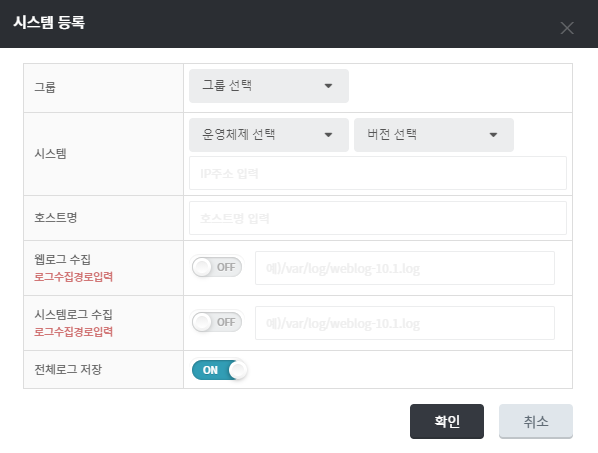
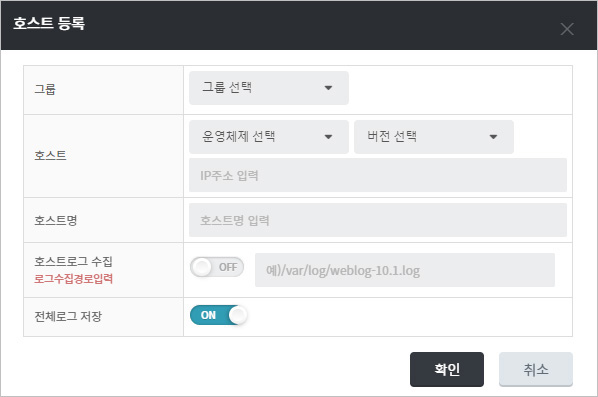
20230601-H1100

diff --git a/ko/plura/v5/install_agent/siem/etc/ko_apache_httpd_log.md b/ko/plura/v5/install_agent/siem/etc/ko_apache_httpd_log.md
@@ -55,14 +55,14 @@ File = “로그 경로”, Tag = “태그”, Severity = “심각도”, prog
 
 ### 4. PLURA V5 탐지 확인
 
-로그 예시 : 전체로그 > 시스템
+로그 예시 : 전체로그 > 호스트
 
 [![image](/docs/images/Ins_G/apache_httpd_err/1.png){: width="800px"}](/docs/images/Ins_G/apache_httpd_err/1.png){: target="_blank"}
 
 
 위 내용을 활용해서 필터를 등록하면 탐지로그를 확인할 수 있습니다.
 
-[Syslog 필터등록](https://qubitsec.github.io/ko_f_regi_syslog.html){:target="_blank"}
+[필터등록](https://qubitsec.github.io/ko_f_regi_syslog.html){:target="_blank"}
 
 <br />
 

diff --git a/ko/plura/v5/install_agent/siem/etc/ko_mysql_log.md b/ko/plura/v5/install_agent/siem/etc/ko_mysql_log.md
@@ -31,9 +31,9 @@ mysql error 로그 위치 확인
 
 ### 4. PLURA V5에서 확인하기
 
-로그 예시 : 전체로그 > 시스템
+로그 예시 : 전체로그 > 호스트
 
 [![image](/docs/images/Ins_G/Mysql(cent)log/1.png){: width="800" }](/docs/images/Ins_G/Mysql(cent)log/1.png){:target="_blank"}
 
 위 내용을 활용해서 필터를 등록하면 탐지로그를 확인할 수 있습니다.   
-[Syslog 필터등록 바로가기](https://qubitsec.github.io/ko_f_regi_syslog.html){:target="_blank"}
+[필터등록 바로가기](https://qubitsec.github.io/ko_f_regi_syslog.html){:target="_blank"}

diff --git a/ko/plura/v5/install_agent/siem/etc/ko_openvpn_log.md b/ko/plura/v5/install_agent/siem/etc/ko_openvpn_log.md
@@ -41,9 +41,9 @@ verb 4
 
 ## 5. PLURA V5에서 확인하기
 
-로그 예시 : 전체로그 > 시스템
+로그 예시 : 전체로그 > 호스트
 
 [![image](/docs/images/Ins_G/openvpn/1.png){: width="800" }](/docs/images/Ins_G/openvpn/1.png){:target="_blank"}
 
 위 내용을 활용해서 필터를 등록하면 탐지로그를 확인할 수 있습니다.   
-[(Syslog 필터등록 바로가기)](https://qubitsec.github.io/ko_f_regi_syslog.html){:target="_blank"}
+[(필터등록 바로가기)](https://qubitsec.github.io/ko_f_regi_syslog.html){:target="_blank"}

diff --git a/ko/plura/v5/install_agent/siem/plc_for_legacy/ko_p_sys_col_aix_srv.md b/ko/plura/v5/install_agent/siem/plc_for_legacy/ko_p_sys_col_aix_srv.md
@@ -69,5 +69,5 @@ Syslog 를 전달받을 Linux 계열의 시스템에 PLURA V5 Agent를 설치합
 
 ## 4. 시스템 등록
 
-- **시스템 > 시스템 관리 > 취합시스템 선택 > 시스템 등록**
+- **시스템 > 시스템 관리 > 취합시스템 선택 > 등록**
 [![image](/docs/images/Ins_G/P_Sys_Collector_AIX_Srv/시스템등록.png)](/docs/images/Ins_G/P_Sys_Collector_AIX_Srv/시스템등록.png){:target="_blank"}

diff --git a/ko/plura/v5/install_agent/siem/plc_for_legacy/ko_p_sys_col_hp_ux_srv.md b/ko/plura/v5/install_agent/siem/plc_for_legacy/ko_p_sys_col_hp_ux_srv.md
@@ -40,5 +40,5 @@ Syslog 를 전달받을 Linux 계열의 시스템에 PLURA V5 Agent를 설치합
 
 ## 3. 시스템 등록
 
- - **시스템 > 시스템 관리 > 취합 시스템 선택 > 시스템 등록**
+ - **시스템 > 시스템 관리 > 취합 시스템 선택 > 등록**
  [![image](/docs/images/Ins_G/P_Sys_Collector_HP-UX_Srv/HP_UX.png)](/docs/images/Ins_G/P_Sys_Collector_HP-UX_Srv/HP_UX.png){:target="_blank"}

diff --git a/ko/plura/v5/install_agent/siem/etc/ko_mysql_err_slow_query_log.md b/ko/plura/v5/install_agent/siem/etc/ko_mysql_err_slow_query_log.md
@@ -14,7 +14,7 @@ product: Install_A_S
 
 ### 1-1. 설정 경로
 
-시스템  > 시스템 관리 > 서버 선택 > 설정 탭 이동 > 설정 버튼을 클릭합니다.
+시스템  > 시스템 관리 > 대상 선택 > 설정 탭 이동 > 설정 버튼을 클릭합니다.
 
 [![image](/docs/images/Ins_G/mysql_slow/1.png){: width="800" }](/docs/images/Ins_G/mysql_slow/1.png){:target="_blank"}
 

diff --git a/ko/plura/v5/install_agent/siem/plc_for_legacy/ko_p_sys_col_solar_srv.md b/ko/plura/v5/install_agent/siem/plc_for_legacy/ko_p_sys_col_solar_srv.md
@@ -38,5 +38,5 @@ Syslog 를 전달받을 Linux 계열의 시스템에 PLURA V5 Agent를 설치합
 
 ## 3. 시스템 등록
 
-- **시스템 > 시스템 관리 > 취합 시스템 선택 > 시스템 등록**
+- **시스템 > 시스템 관리 > 취합 시스템 선택 > 등록**
 [![image](/docs/images/Ins_G/Solaris/Solaris_Srv.png)](/docs/images/Ins_G/Solaris/Solaris_Srv.png){:target="_blank"}

diff --git a/ko/plura/v5/install_agent/siem/plc_for_legacy/ko_p_sys_col_freebsd_srv.md b/ko/plura/v5/install_agent/siem/plc_for_legacy/ko_p_sys_col_freebsd_srv.md
@@ -38,5 +38,5 @@ Syslog 를 전달받을 Linux 계열의 시스템에 PLURA V5 Agent를 설치합
 
 ## 3. 시스템 등록
 
-- **시스템 > 시스템 관리 > 취합 시스템 선택 > 시스템 등록**
+- **시스템 > 시스템 관리 > 취합 시스템 선택 > 등록**
  [![image](/docs/images/Ins_G/FreeBSD/freebsd.png)](/docs/images/Ins_G/FreeBSD/freebsd.png){:target="_blank"}

diff --git a/ko/plura/v5/install_agent/siem/etc/ko_rsys_mysql_err_slow_query_log.md b/ko/plura/v5/install_agent/siem/etc/ko_rsys_mysql_err_slow_query_log.md
@@ -107,7 +107,7 @@ long_query_time = 3
 
 Error 또는 Slow Query 발생 후 시스템 로그에서 MySQL 관련 로그를 확인
 
-로그 예시 : 전체로그 > 시스템
+로그 예시 : 전체로그 > 호스트
 
 [![image](/docs/images/Ins_G/rsys_mysql/3.png){: width="800" }](/docs/images/Ins_G/rsys_mysql/3.png){:target="_blank"}
 
